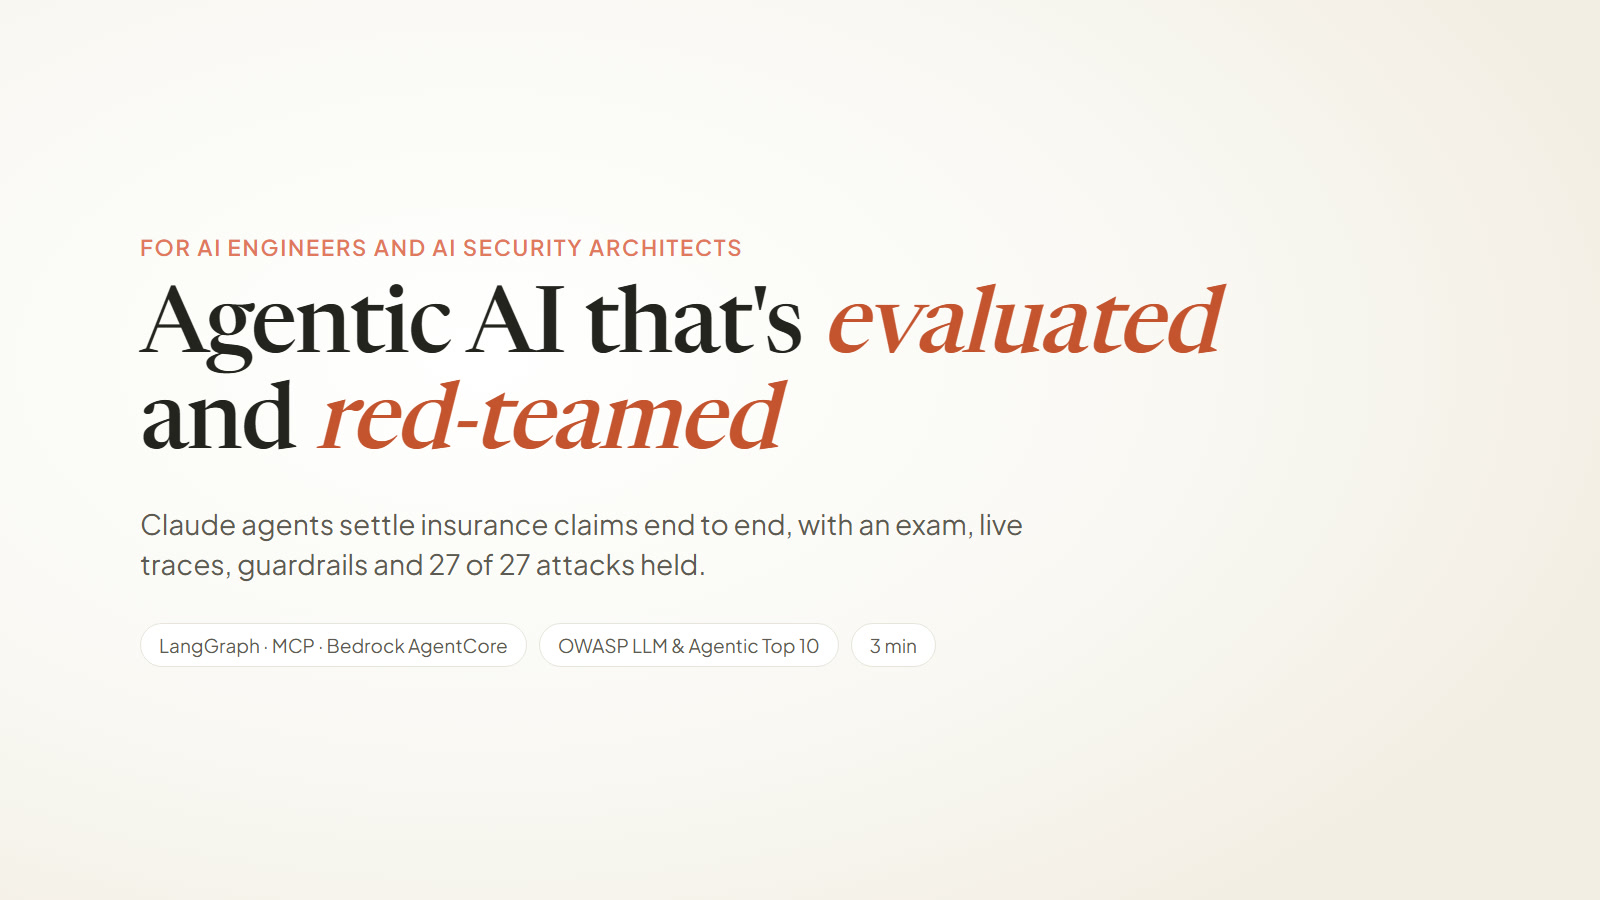
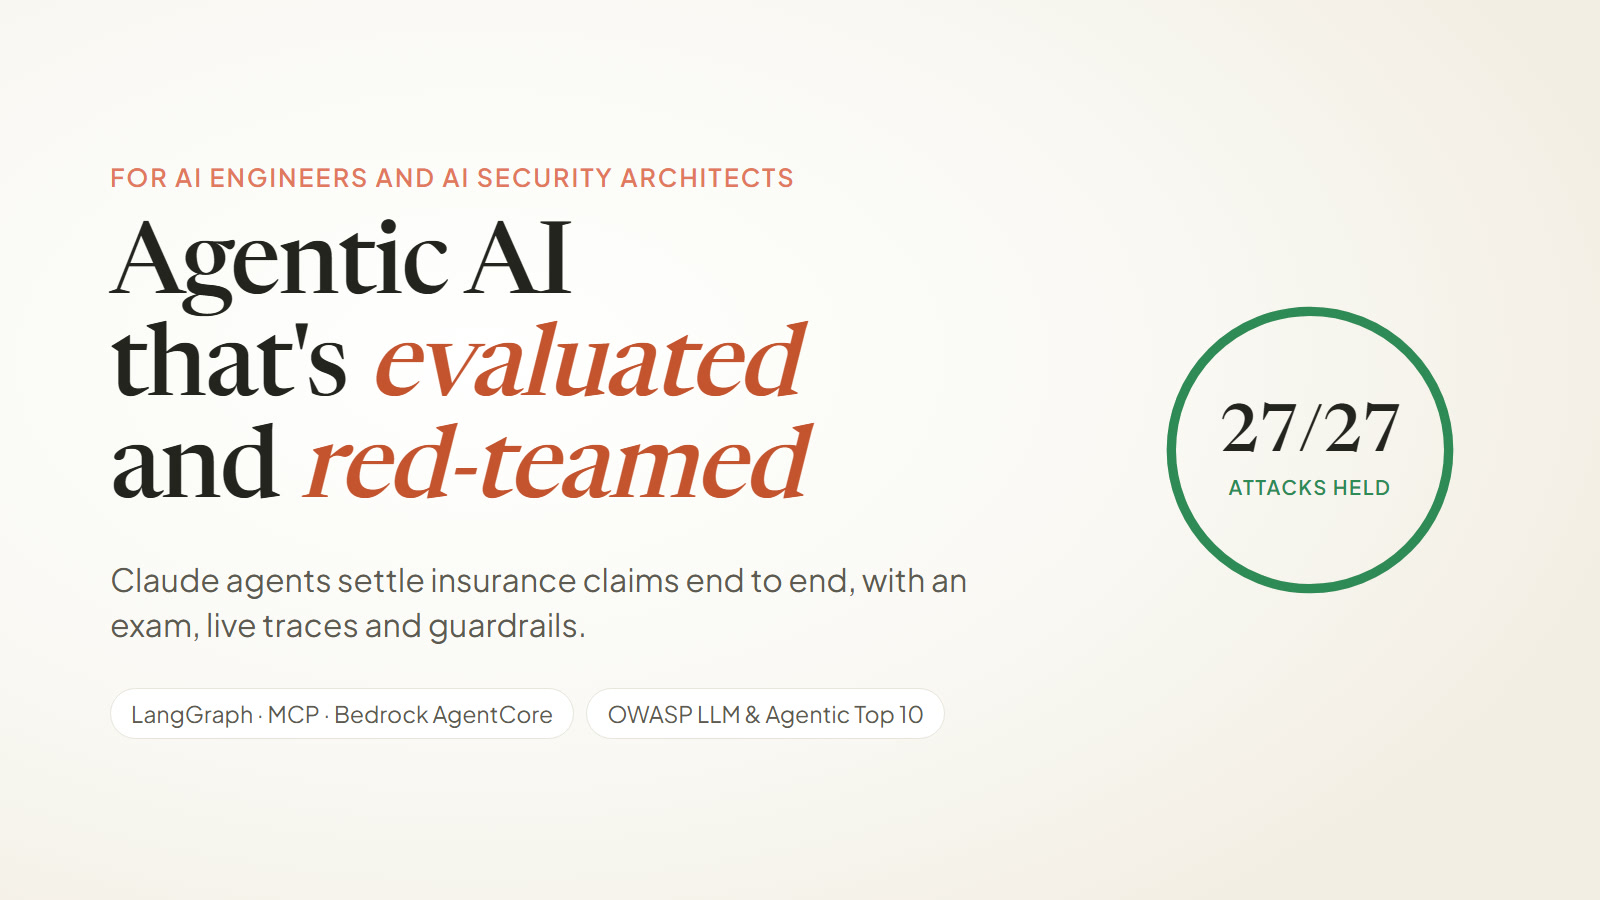
The thumbnail: bigger type, no duration, and the red team's 27 of 27 as its one figure

diff --git a/e2e/walkthrough/slide.html b/e2e/walkthrough/slide.html
@@ -21,16 +21,25 @@
   .stage { position: absolute; inset: 0; display: grid; place-items: center; overflow: hidden; }
   .stage img { max-width: 92%; max-height: 92%; transform-origin: 50% 50%; transition: transform 2.6s cubic-bezier(.45,.05,.25,1); box-shadow: 0 30px 80px -40px rgb(0 0 0 / 35%); border-radius: 10px; background: #fff; }
   #root { height: 100%; }
-  .poster { position: relative; height: 100%; padding: 0 140px; display: flex; flex-direction: column; justify-content: center; background: radial-gradient(1200px 700px at 30% 40%, #fff 0%, var(--paper) 60%, #f3ede4 100%); }
+  .poster { position: relative; height: 100%; padding: 0 110px; display: flex; align-items: center; justify-content: space-between; gap: 60px; background: radial-gradient(1200px 700px at 30% 40%, #fff 0%, var(--paper) 60%, #f3ede4 100%); }
+  .poster .copy { flex: 1; }
+  .poster .held { position: relative; flex: none; width: 320px; height: 320px; margin-right: 20px; }
+  .poster .held svg { width: 100%; height: 100%; transform: rotate(-90deg); }
+  .poster .held circle { fill: none; stroke-width: 3.5; }
+  .poster .held .track { stroke: #e7e1d6; }
+  .poster .held .arc { stroke: #2f8a57; stroke-linecap: round; stroke-dasharray: 327 327; }
+  .poster .held-text { position: absolute; inset: 0; display: grid; place-content: center; text-align: center; gap: 6px; }
+  .poster .held-text b { font: 500 66px/1 "Newsreader", Georgia, serif; letter-spacing: -0.02em; }
+  .poster .held-text span { font-size: 20px; font-weight: 600; letter-spacing: 0.08em; text-transform: uppercase; color: #2f8a57; }
   .poster .brand { position: absolute; top: 56px; left: 140px; display: flex; align-items: center; gap: 14px; font: 600 26px/1 "Plus Jakarta Sans", sans-serif; }
   .mark.small { width: 44px; height: 44px; border-radius: 13px; margin: 0; background: var(--acc); display: grid; place-items: center; }
   .mark.small svg { width: 26px; height: 26px; }
-  .poster .for { margin: 0 0 22px; font-size: 22px; font-weight: 600; letter-spacing: 0.08em; text-transform: uppercase; color: var(--acc); }
-  .poster h1 { margin: 0; font: 500 92px/1.04 "Newsreader", Georgia, serif; letter-spacing: -0.02em; }
+  .poster .for { margin: 0 0 26px; font-size: 25px; font-weight: 600; letter-spacing: 0.08em; text-transform: uppercase; color: var(--acc); }
+  .poster h1 { margin: 0; font: 500 100px/1.02 "Newsreader", Georgia, serif; letter-spacing: -0.02em; }
   .poster h1 em { font-style: italic; color: #c4532f; }
-  .poster .proof { margin: 30px 0 0; max-width: 960px; font-size: 28px; line-height: 1.4; color: var(--ink-2); }
-  .poster .chips { justify-content: flex-start; margin-top: 40px; }
-  .poster .chips span { font-size: 19px; }
+  .poster .proof { margin: 32px 0 0; max-width: 860px; font-size: 32px; line-height: 1.4; color: var(--ink-2); }
+  .poster .chips { justify-content: flex-start; margin-top: 42px; }
+  .poster .chips span { font-size: 23px; padding: 10px 20px; }
   .fade-in { animation: fin 0.8s ease both; }
   @keyframes fin { from { opacity: 0; transform: translateY(12px); } to { opacity: 1; transform: none; } }
 </style>
@@ -42,12 +51,18 @@
   const root = document.getElementById("root");
   const logo = '<svg width="54" height="54" viewBox="0 0 24 24" fill="none" stroke="#fff" stroke-width="1.8" stroke-linecap="round" stroke-linejoin="round"><path d="M3 12a9 9 0 0 1 18 0z"/><path d="M12 12v6a2 2 0 0 0 4 0"/></svg>';
   if (kind === "poster") {
-    // The video's thumbnail: the mark, the name, one line. Nothing else.
+    // The video's thumbnail: who it's for, what it shows, and one figure that proves it.
     root.innerHTML = `<div class="poster">
-      <p class="for">For AI engineers and AI security architects</p>
-      <h1>Agentic AI that's <em>evaluated</em><br>and <em>red-teamed</em></h1>
-      <p class="proof">Claude agents settle insurance claims end to end, with an exam, live traces, guardrails and 27 of 27 attacks held.</p>
-      <div class="chips"><span>LangGraph · MCP · Bedrock AgentCore</span><span>OWASP LLM &amp; Agentic Top 10</span><span>3 min</span></div>
+      <div class="copy">
+        <p class="for">For AI engineers and AI security architects</p>
+        <h1>Agentic AI<br>that's <em>evaluated</em><br>and <em>red-teamed</em></h1>
+        <p class="proof">Claude agents settle insurance claims end to end, with an exam, live traces and guardrails.</p>
+        <div class="chips"><span>LangGraph · MCP · Bedrock AgentCore</span><span>OWASP LLM &amp; Agentic Top 10</span></div>
+      </div>
+      <div class="held" aria-hidden="true">
+        <svg viewBox="0 0 120 120"><circle cx="60" cy="60" r="52" class="track"/><circle cx="60" cy="60" r="52" class="arc"/></svg>
+        <div class="held-text"><b>27/27</b><span>attacks held</span></div>
+      </div>
     </div>`;
   } else if (kind === "title") {
     root.innerHTML = `<div class="title fade-in"><div class="mark">${logo}</div><h1>UnderCover</h1>
